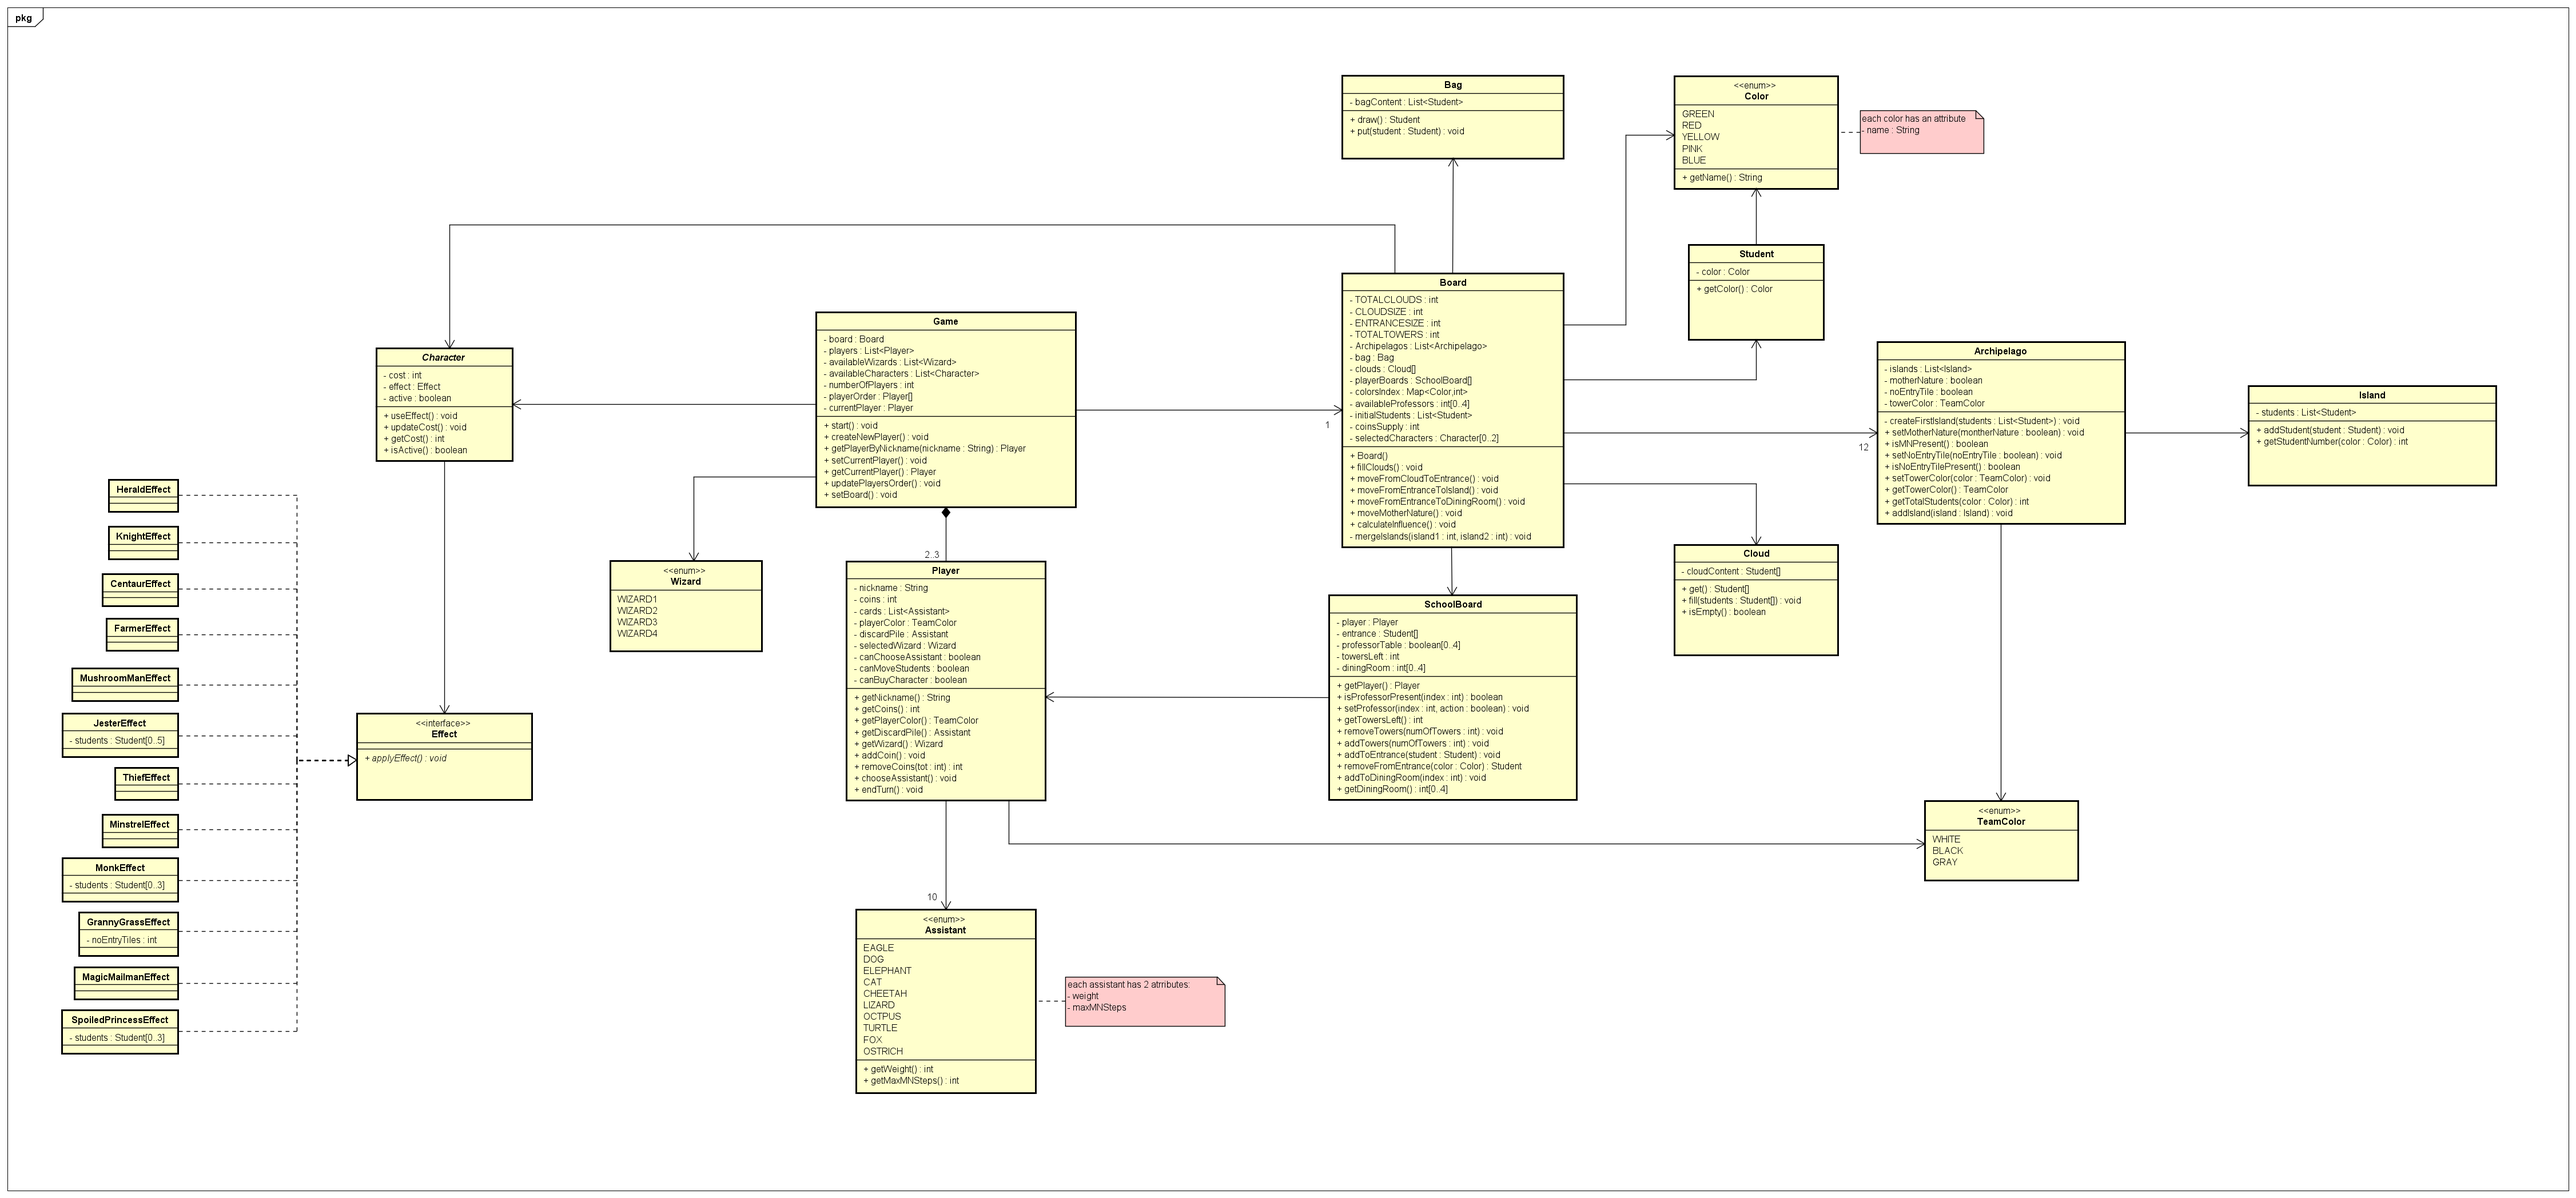
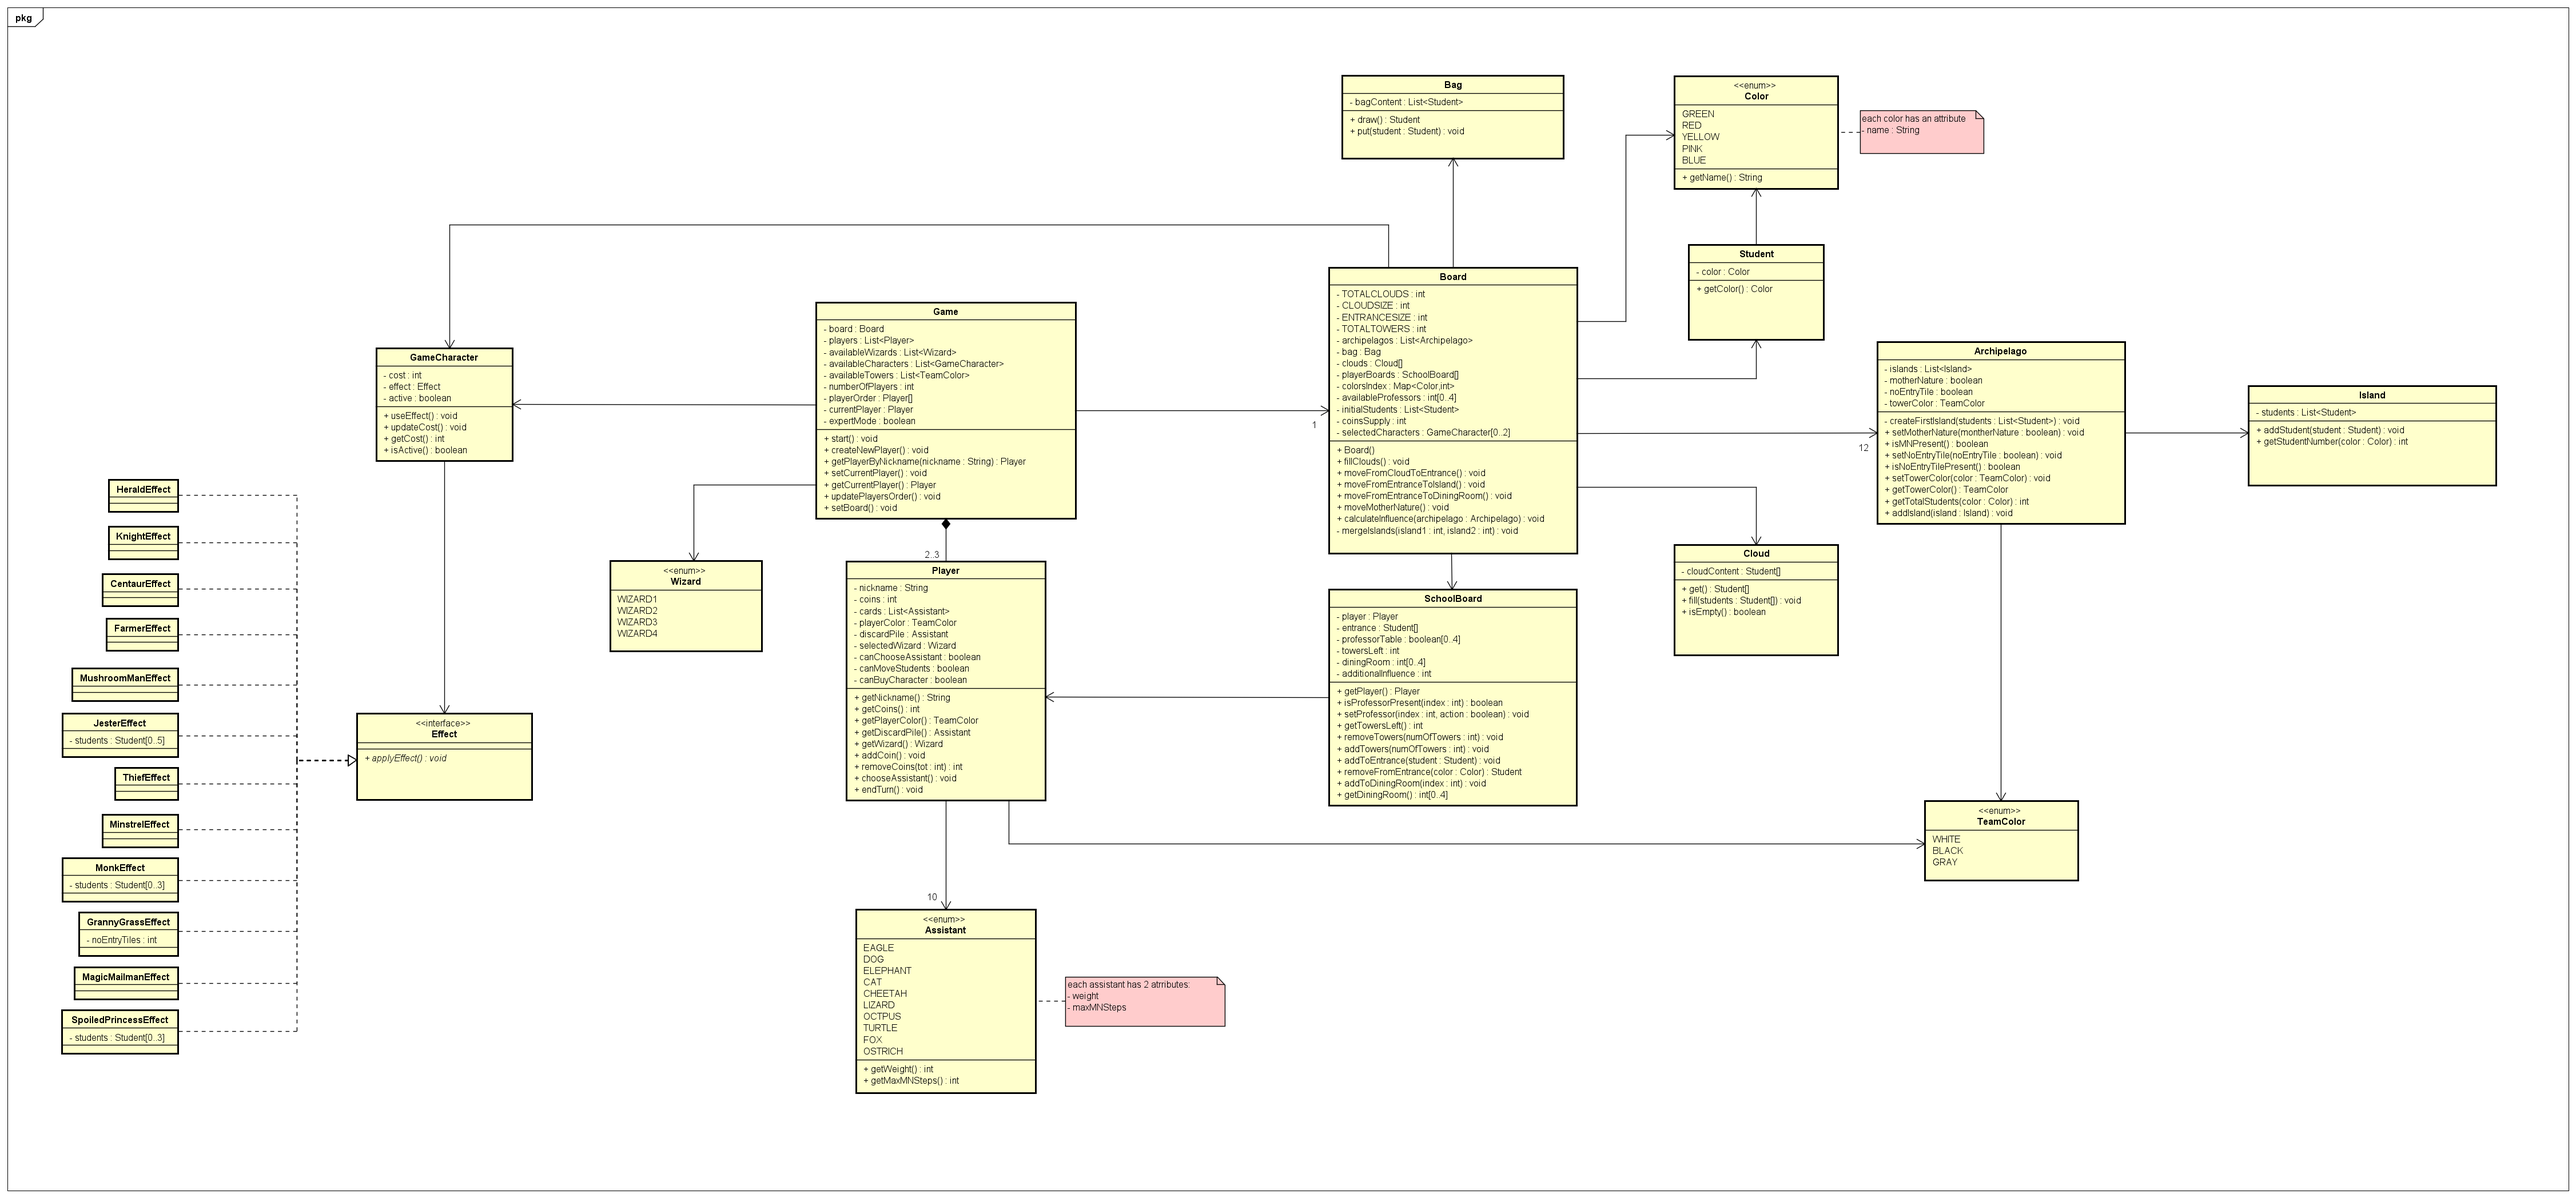
added peer reviews and updated uml

Changed region(s): [[0.4972, 0.2171, 0.6215, 0.6823], [0.3108, 0.2481, 0.4351, 0.4342]]

diff --git a/deliveries/Peer_Review_Gruppo45.md b/deliveries/Peer_Review_Gruppo45.md
@@ -1,0 +1,55 @@
+# Peer-Review 1: UML
+
+Davide Grazzani, Luca Muroni, Sara Mucci
+
+Gruppo 46
+
+Valutazione del diagramma UML delle classi del gruppo 45
+
+### Nota Introduttiva
+Se un metodo/attributo di una classe non viene citato né positvamente né negativamente allora significa che lo reputiamo consono all'implementazione da voi fornita
+## Lati positivi
+
+- **Game**
+	- Ottimo il salvataggio del numero di giocatori, l'ordine di gioco e il giocatore corrente
+	- Gestione consona dei Wizard come enum
+- **Cloud**
+	- La size di una Cloud è sicuramente una scelta ottima per poter continuare a riempire le nuvole con la giusta dimensione
+- **Player**
+	- Buona idea mettere il colore delle torri come attributo del giocatore
+- **Assistant**
+	- Piaciuta l'idea di utilizzare un enum per rappresentare le carte asistente
+- **Arcipelago**
+	- Interessante unire due isole in una classe Arcipelago
+
+
+## Lati negativi
+- **Generale**
+	- Nessuna separazione tra attributi e metodi da esperto rispetto a quelli base
+	- Meglio specificare più cardinalità (UML)
+- **Character, effect e gli effetti**
+	- Non capiamo il motivo per cui Character debba essere una classe astratta
+- **Game**
+	- Manca un Wizard (sono 5 in totale)
+	- Metodo start() potrebbe essere da controller se non utilizzato come inizzializatore
+- **Player**
+	- Ci sono dei metodi che sembrano da Controller (tipo endturn())
+	- Per noi è sbaglito utilizare tanti attributi&metodi boolean per la gestione del flusso di gioco(canchoseAssistant())
+- **Bag**
+	- A cosa serve il metodo put? Non può la borsa generare da sola gli studenti?
+- **Board**
+	- scomodo l'utilizzo di int per mappare i colori di professori e studenti
+	- difficoltà nel chimare mergeIsland. Come ottengo le isole da passare?
+	- metodi move sembrano mancare di parametri necessari al funzionamento dei metodi stessi
+- **Arcipelago**
+	- Viene utilizzata in una maniera molto complicata, difficile stabilire solo da UML il corretto funzionamento (non entriamo nel dettaglio proprio per tale motivo)
+## Confronto tra le architetture
+### Punti di forza
+- Conferma di un'idea pregressa di mettere il colore delle torri come attributo della classe Player
+- Spostata la gestione del currentPlayer e dell'array di tutti i giocatori nella classe Game come attributo quindi del package Model
+- Aggiunta di int per indicare la dimensione delle nuvole che va mantenuta costante a runtime
+- Punto di forza è la classe arcipelago, piace molto l'idea di avere una classe unica che gestisce più isole.
+### Consigli implementativi
+- Dividere le classi della modalità esperto da quelle della modalità normale (tecnicamente valutiamo positivamente la vostra scelta implementativa, però la consideriamo meno efficiente)
+- Consigliata una revisione implementativa della classe Arcipelago; affidare a quest'ultima la completa gestione delle isole
+- Consigliata la rimozione di tutti quei metodi boolean che vanno a 'gestire' il flusso di gioco (eg: attributo canChoseAssistant)

diff --git a/deliveries/Peer_Review_Gruppo44.md b/deliveries/Peer_Review_Gruppo44.md
@@ -1,0 +1,34 @@
+# Peer-Review 1: UML
+
+Folini, Grimaldi, Giandomenico
+
+Gruppo 45
+
+Valutazione del diagramma UML delle classi del gruppo 44.
+
+
+## Lati positivi
+
+Pur non avendo definito totalmente le componenti Controller e View del pattern MVC, abbiamo apprezzato che siano state fornite le interfacce _GameModifier_ e _ModelObserver_ (con le relative classi) che permettono di avere un'idea ad alto livello di come avverrà l'interazione con il Model.
+Inoltre molto comoda l'interfaccia _GameModifier_, che permette ai vari _Character_ di modificare direttamente lo stato del gioco in base ai loro effetti, oltre a gestire le altre azioni di gioco effettuate dai giocatori.
+Anche l'interfaccia _Data_ risulta essere comoda per il salvataggio dei dati offline per implementare la F.A. della persistenza.
+
+Ci è sembrata appropriata, per quanto riguarda la gestione dei diversi _Character_, la scelta di utilizzare il design pattern _Strategy_.
+
+Interessante, infine, è stata l'adozione della struttura dati _Union Find_ per l'organizzazione delle isole e della loro unione, in quanto questa struttura permette di ottimizzare l'operazione di fusione.
+
+
+## Lati negativi
+
+Tra i lati negativi vorremmo evidenziare la scelta di salvare tutte le carte assistente giocate in precedenza dal player anziché solo l'ultima, poiché è l'unica carta di cui dover tenere conto durante ciascun turno secondo il regolamento del gioco.
+Inoltre si sarebbero potute implementare le carte assistente come un'enumerazione al posto di una normale classe in quanto è noto a priori la presenza di 10 assistenti distinti con attributi prefissati.
+
+Non ci sembra necessario inserire _IP_ e _Port_ come attributi della classe _Player_ in quanto non sono strettamente legati alla logica di gioco ma sono inerenti alla comunicazione tra client e server.
+
+Non è chiaro come verranno gestite le differenze tra le varianti facile/esperto e tra le modalità di gioco in 2, 3 o 4 giocatori. In particolare, per queste ultime (per ciò che riguarda il numero di nuvole, di torri e di studenti presenti sulle nuvole e nell'ingresso della scuola) sono stati indicati gli attributi di ciascuna classe ma non è specificato chi si occuperà dell'inizializzazione degli stessi in base al numero di giocatori.
+
+
+## Confronto tra le architetture
+
+Confrontando i due diagrammi UML abbiamo trovato particolarmente efficace l'introduzione dell'interfaccia _GameModifier_ che svolge il ruolo di intermediario tra _Character_ e il tavolo di gioco per le variazioni apportate dagli effetti allo stato di gioco.
+Inizialmente avevamo optato per un differente approccio al problema, ma la soluzione individuata dal gruppo 44 ci ha convinti maggiormente in quanto più elegante.
